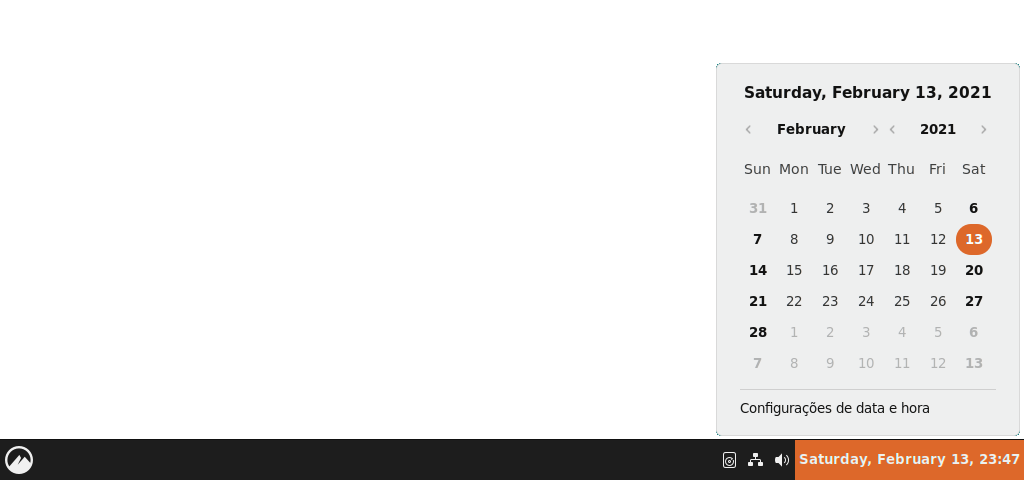
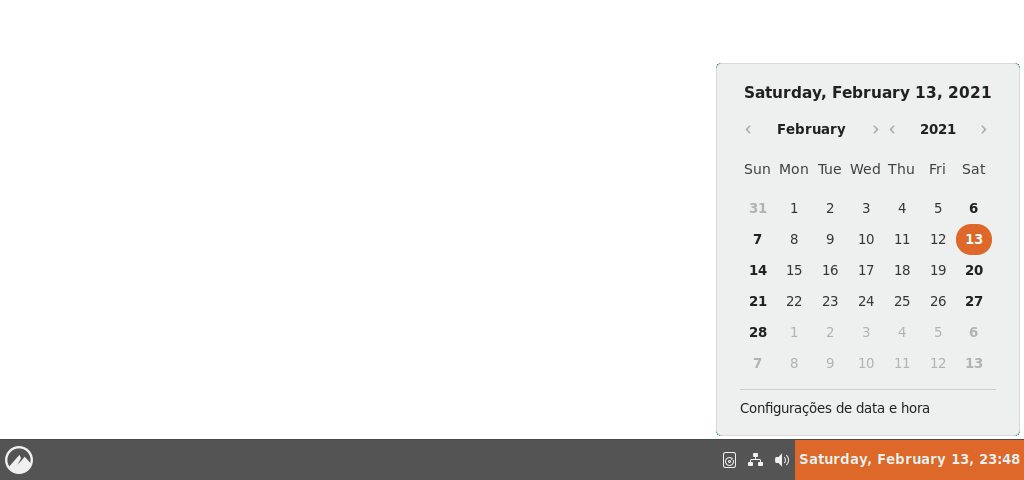
Themes (cinnamon): Go back to gray background for left-hand bar

Changed region(s): [[0.0, 0.9062, 0.7812, 1.0], [0.9688, 0.9375, 1.0, 0.9688]]

diff --git a/usr/share/themes/Yaru-Cinnamon-Dark/cinnamon/cinnamon.css b/usr/share/themes/Yaru-Cinnamon-Dark/cinnamon/cinnamon.css
@@ -48,12 +48,12 @@ stage {
   transition-duration: 300ms;
   border-radius: 5px;
   color: #D3D3D3;
-  background-color: #272727;
+  background-color: #404040;
   border: 1px solid #111111;
   box-shadow: inset 0 2px 4px rgba(64, 64, 64, 0.05); }
   #menu-search-entry:focus, .popup-menu #notification StEntry:focus, #menu-search-entry:hover, .popup-menu #notification StEntry:hover {
     color: #f0f0f0;
-    background-color: #272727;
+    background-color: #404040;
     border: 1px solid #dd682a;
     box-shadow: inset 0 2px 4px rgba(64, 64, 64, 0.05); }
   #menu-search-entry:insensitive, .popup-menu #notification StEntry:insensitive {
@@ -954,8 +954,8 @@ StScrollBar {
 .menu-favorites-box {
   padding: 10px;
   transition-duration: 300;
-  background-color: #1d1d1d;
-  border: 1px solid #808080;
+  background-color: #404040;
+  border: 1px solid #111111;
   border-radius: 5px; }
 
 .menu-favorites-button {
@@ -963,7 +963,7 @@ StScrollBar {
   border: 1px solid rgba(0, 0, 0, 0);
   border-radius: 3px; }
   .menu-favorites-button:hover {
-    background-color: #1d1d1d; 
+    background-color: #404040; 
     border: 1px solid #dd682a;}
 
 .menu-places-box {

diff --git a/usr/share/themes/Yaru-Cinnamon-Light/cinnamon/cinnamon.css b/usr/share/themes/Yaru-Cinnamon-Light/cinnamon/cinnamon.css
@@ -436,21 +436,21 @@ StScrollBar {
 .panel-top, .panel-bottom, .panel-left, .panel-right {
   color: #ffffff;
   border: none;
-  background-color: #1d1d1d;
+  background-color: #545454;
   font-size: 1em;
   padding: 0px; }
 
 .panel-top {
-  box-shadow: 0 1px #111111; }
+  box-shadow: 0 1px #4a4a4a; }
 
 .panel-bottom {
-  box-shadow: 0 -1px #111111; }
+  box-shadow: 0 -1px #4a4a4a; }
 
 .panel-left {
-  box-shadow: 1px 0 #111111; }
+  box-shadow: 1px 0 #4a4a4a; }
 
 .panel-right {
-  box-shadow: -1px 0 #111111; }
+  box-shadow: -1px 0 #4a4a4a; }
 
 .panel-dummy {
   background-color: rgba(252, 65, 56, 0.5); }
@@ -954,8 +954,8 @@ StScrollBar {
 .menu-favorites-box {
   padding: 10px;
   transition-duration: 300;
-  background-color: #f0f0f0;
-  border: 1px solid #808080;
+  background-color: #ffffff;
+  border: 1px solid #d9d9d9;
   border-radius: 5px; }
 
 .menu-favorites-button {
@@ -963,7 +963,7 @@ StScrollBar {
   border: 1px solid transparent;
   border-radius: 3px; }
   .menu-favorites-button:hover {
-    background-color: #f0f0f0; 
+    background-color: white; 
     border: 1px solid #dd682a;}
 
 .menu-places-box {
